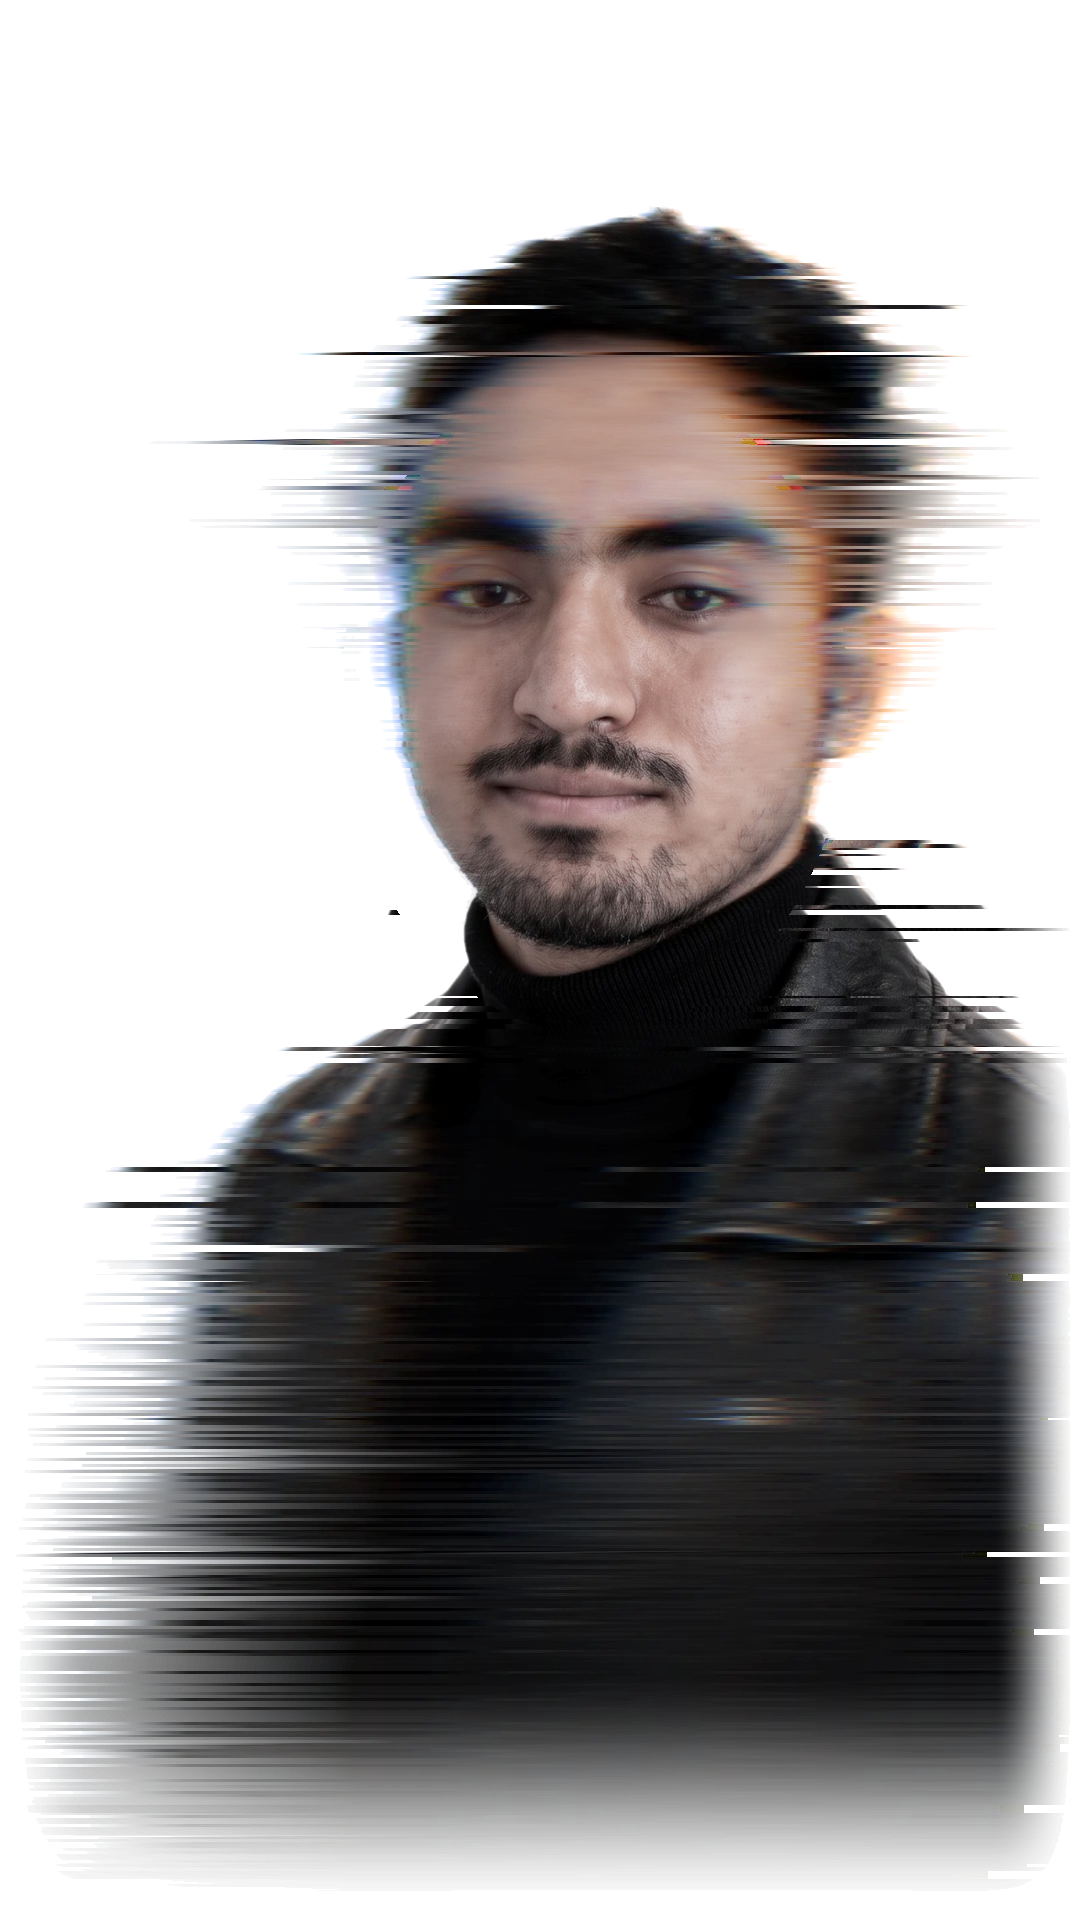
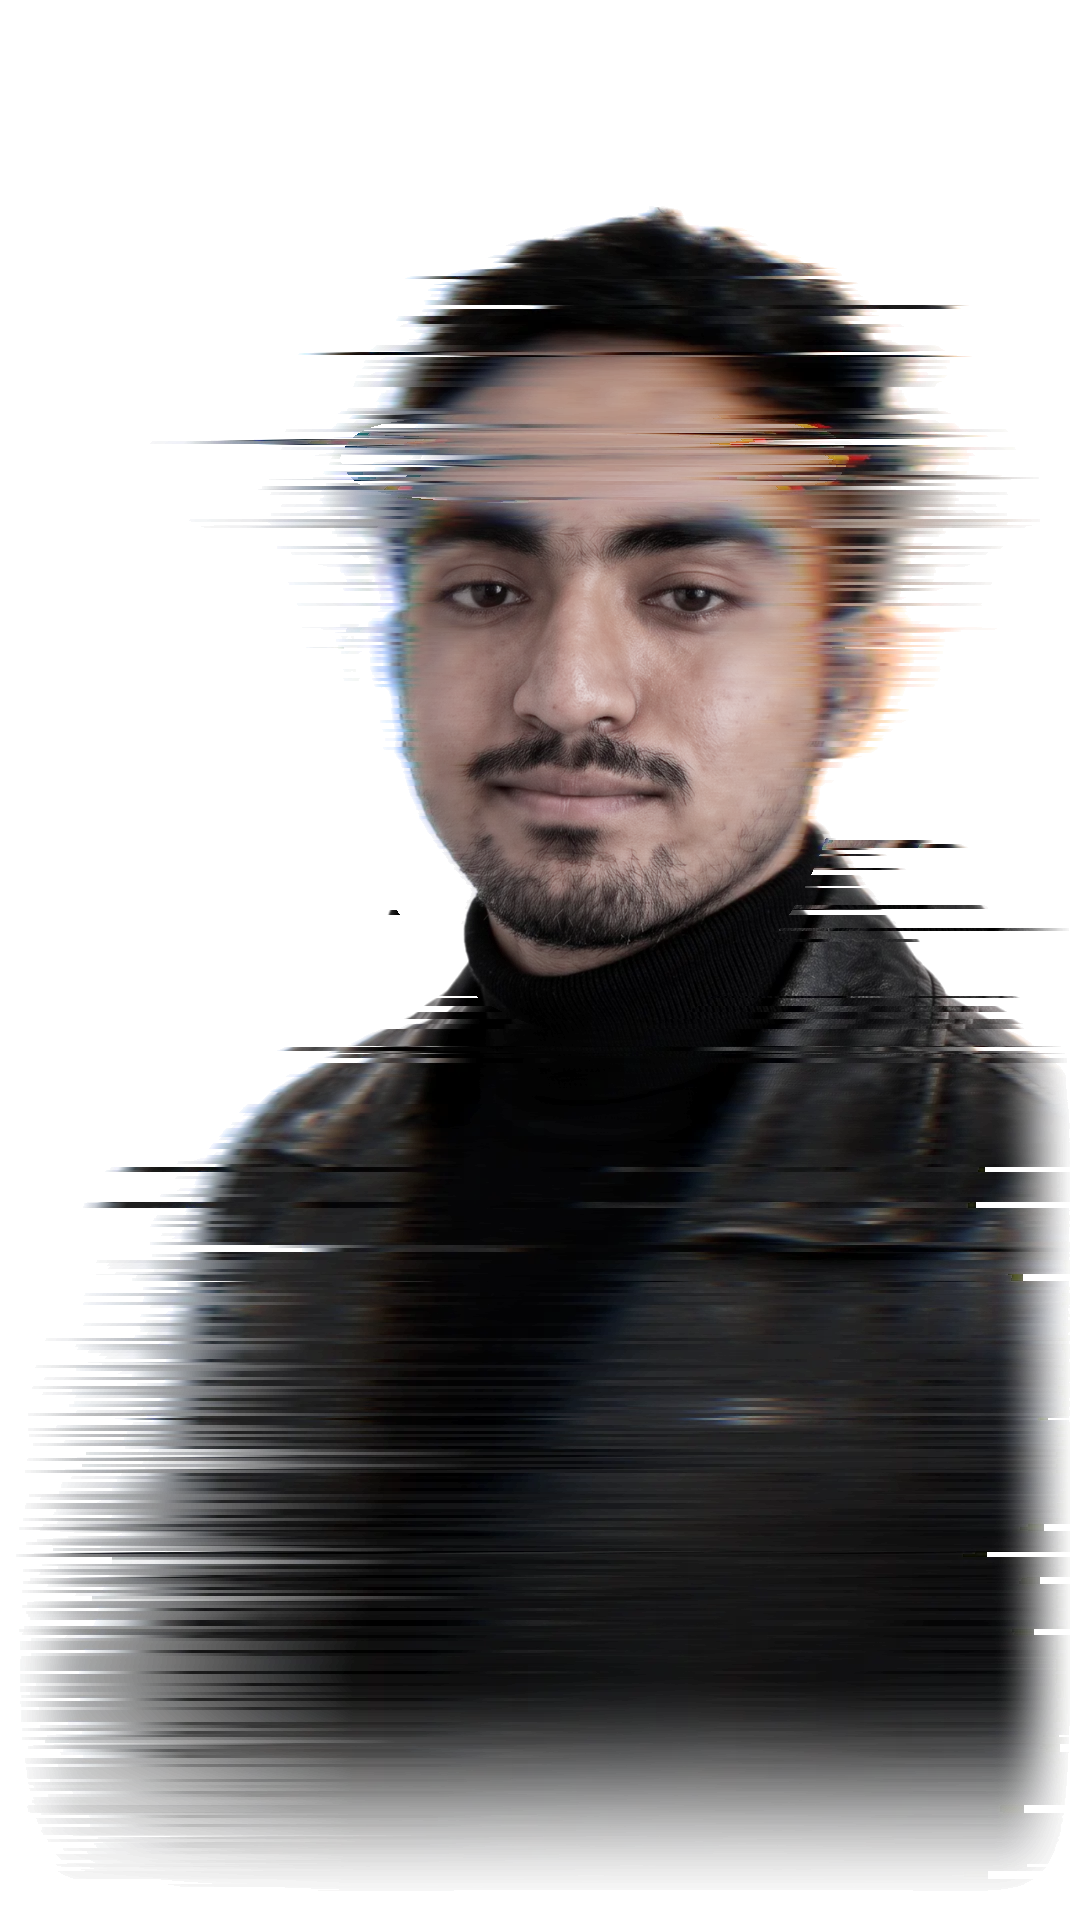
Clear eyes in the About portrait; keep the side captions off the name
- Portrait: the eyes and brows stay untouched (no smear, colour drift or
  glitch rows); the scan effect moves to a band across the forehead. The
  old per-row drift used the row's strongest shift everywhere, which put
  red and blue fringes on the eyes.
- On short, wide windows the big name reaches below the middle of the
  hero, so "Look through the lens" and "Shot on Nikon" sat against its
  letters. They now keep a 44px gap under the name; "24 frames" moves
  down with them and is hidden on windows under 700px tall.

Claude-Session: https://claude.ai/code/session_011TpTGEDVnr44BgNM2dntDK

Changed region(s): [[0.3056, 0.2188, 0.55, 0.3125], [0.6417, 0.2188, 0.7944, 0.25], [0.6417, 0.2812, 0.6722, 0.3125]]

diff --git a/assets/site.css b/assets/site.css
@@ -56,6 +56,12 @@ button { font: inherit; color: inherit; cursor: pointer; }
 .ed.mr { right: max(28px, env(safe-area-inset-right, 0px)); top: 49%; text-align: right; }
 .ed.mr b { letter-spacing: .16em; }
 .ed.lr { right: max(28px, env(safe-area-inset-right, 0px)); top: 69%; text-align: right; }
+/* on short, wide windows the name reaches below 49%: the side captions keep a clear gap under its letters
+   (the name's box is top offset + 0.2248 x its width; see .mast) */
+.hero { --mast-end: calc(env(safe-area-inset-top, 0px) + clamp(30px, 5.2vh, 48px) + min(100vw, 1600px) * .2248); }
+.ed.ml, .ed.mr { top: max(49%, calc(var(--mast-end) + 44px)); }
+.ed.lr { top: max(69%, calc(var(--mast-end) + 190px)); }
+@media (max-height: 700px) and (min-width: 861px) { .ed.lr { display: none; } }
 .ed.lr .num { display: block; font-weight: 300; font-size: 56px; line-height: 1; letter-spacing: 0; margin-bottom: 8px; }
 .ed.lr .ico { margin: 16px 0 0 auto; width: 26px; }
 .ed.bar { right: max(28px, env(safe-area-inset-right, 0px)); bottom: calc(env(safe-area-inset-bottom, 0px) + 24px); width: 96px; height: 32px;

diff --git a/index.html b/index.html
@@ -117,7 +117,7 @@
     <p class="e-sig e-tl"><span class="ln"><span>signal layer</span></span><i aria-hidden="true"></i></p>
     <p class="e-sig e-tr"><span class="ln"><span>form through light</span></span><i aria-hidden="true"></i></p>
     <figure class="e-photo">
-      <img src="img/echo-face.webp?v=2d260d5510" alt="Vinit Rami in a black turtleneck and biker leather jacket, head turned slightly, face sharp while his shoulders dissolve into horizontal scan blur with red and blue drift." width="1080" height="1920" loading="lazy" decoding="async">
+      <img src="img/echo-face.webp?v=fcc5458edc" alt="Vinit Rami in a black turtleneck and biker leather jacket, head turned slightly, face sharp while his shoulders dissolve into horizontal scan blur with red and blue drift." width="1080" height="1920" loading="lazy" decoding="async">
       <span class="e-bar" aria-hidden="true"></span>
     </figure>
     <svg class="e-bracket" viewBox="0 0 40 40" fill="none" stroke="currentColor" stroke-width="1.5" aria-hidden="true"><path d="M4 4 H36 V36"></path></svg>
